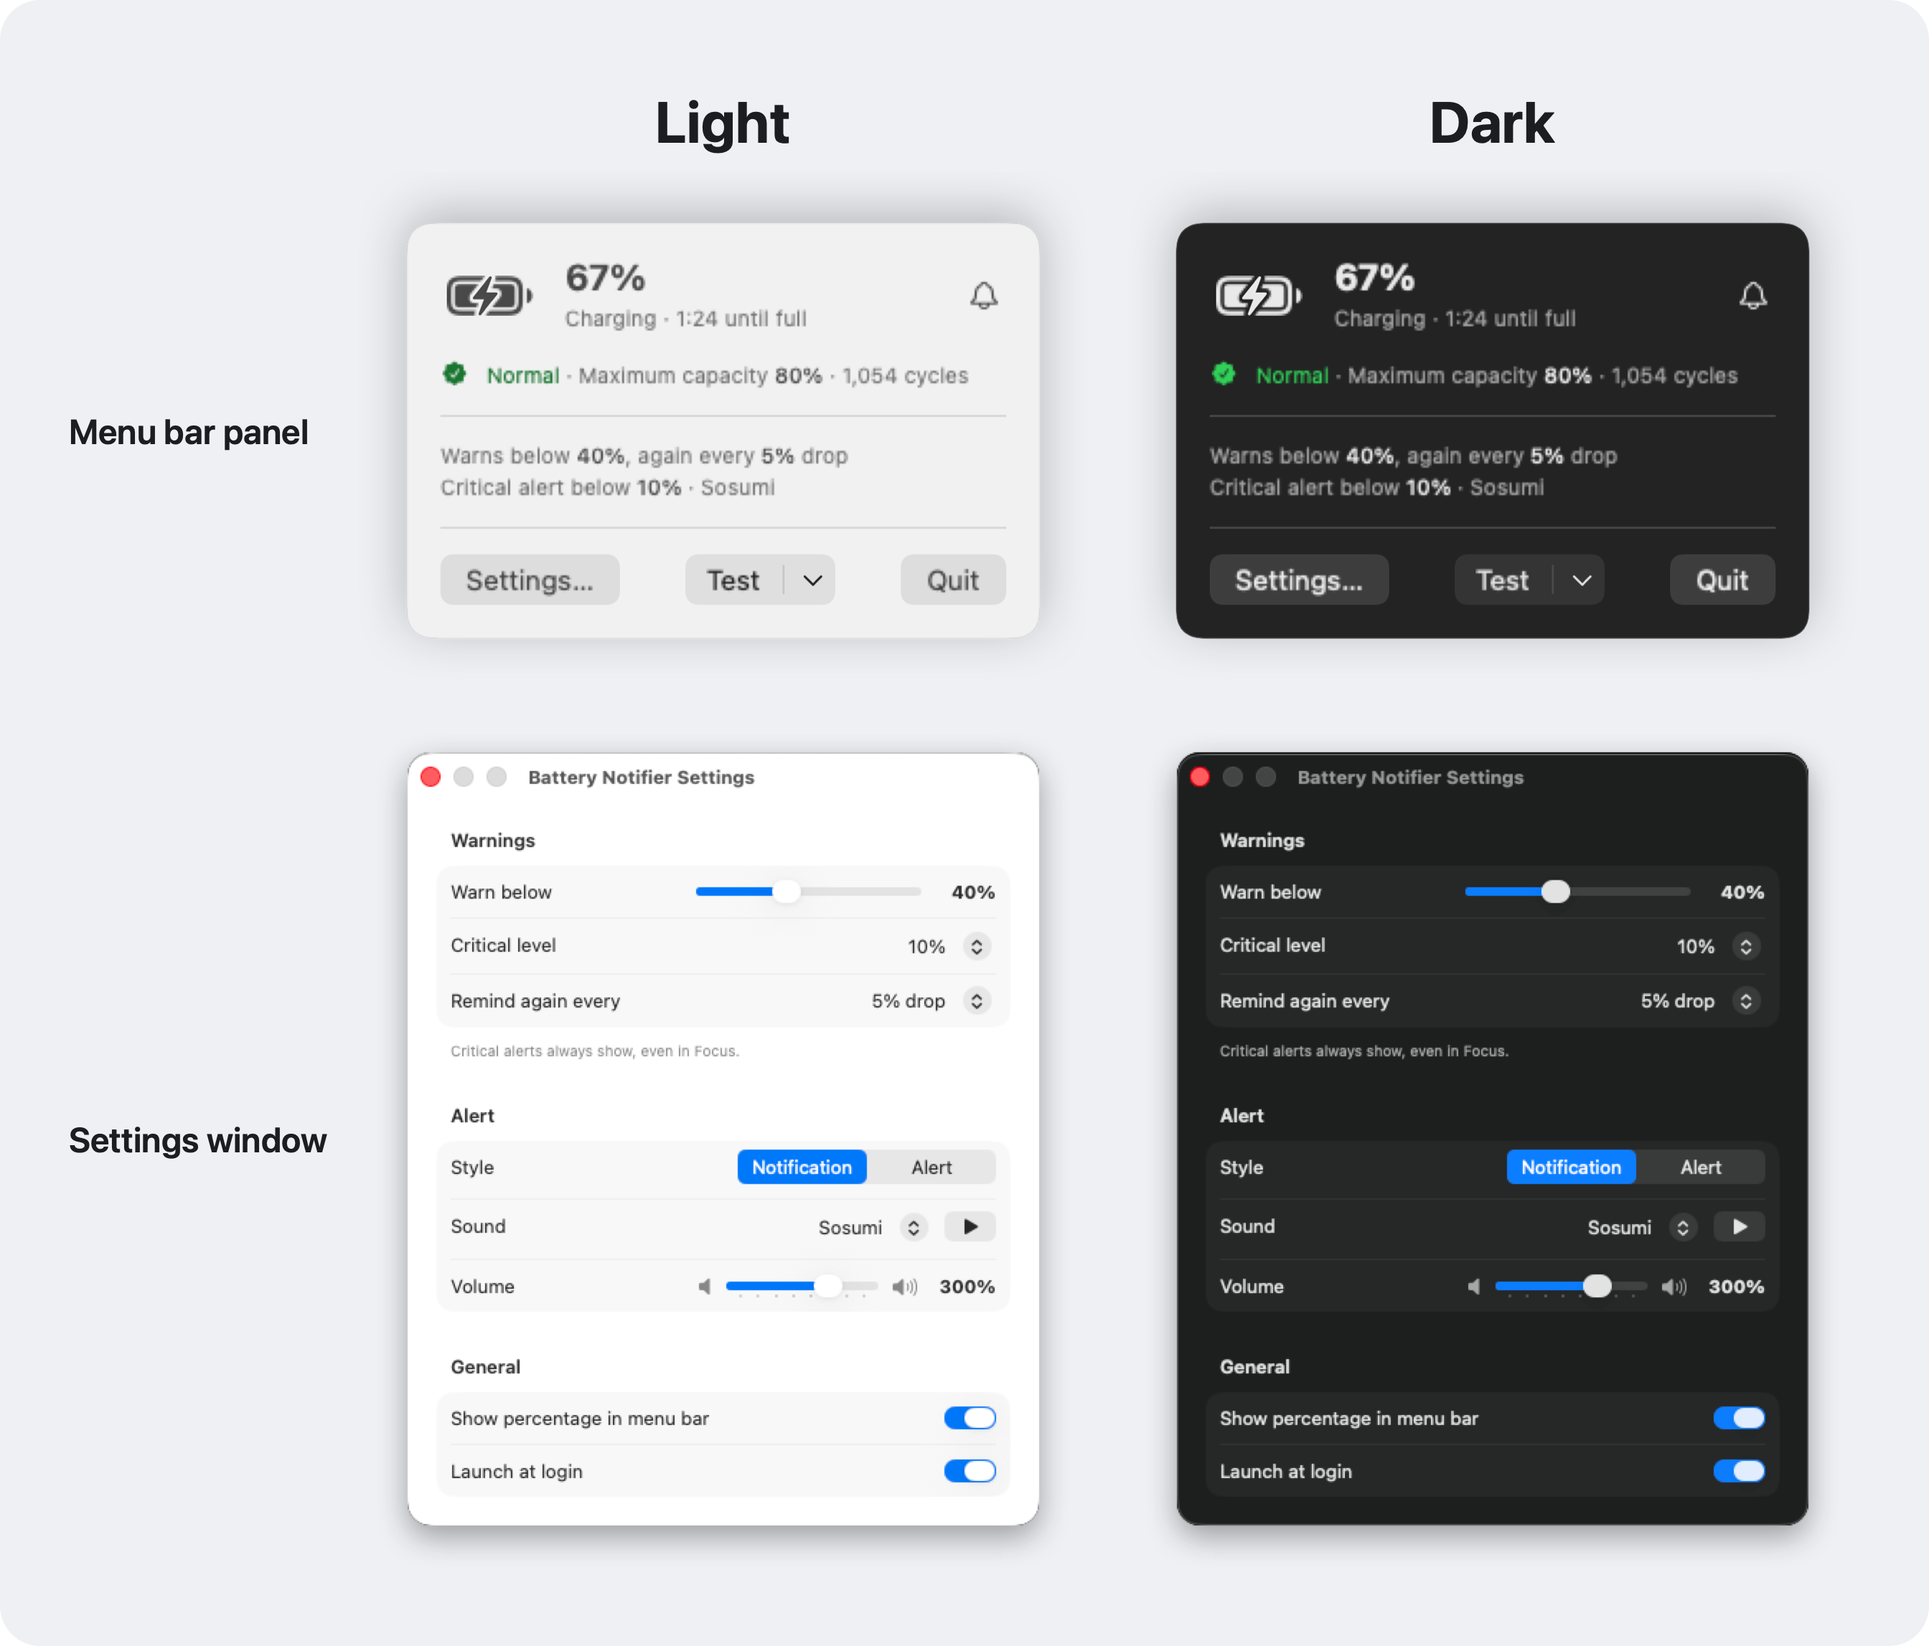
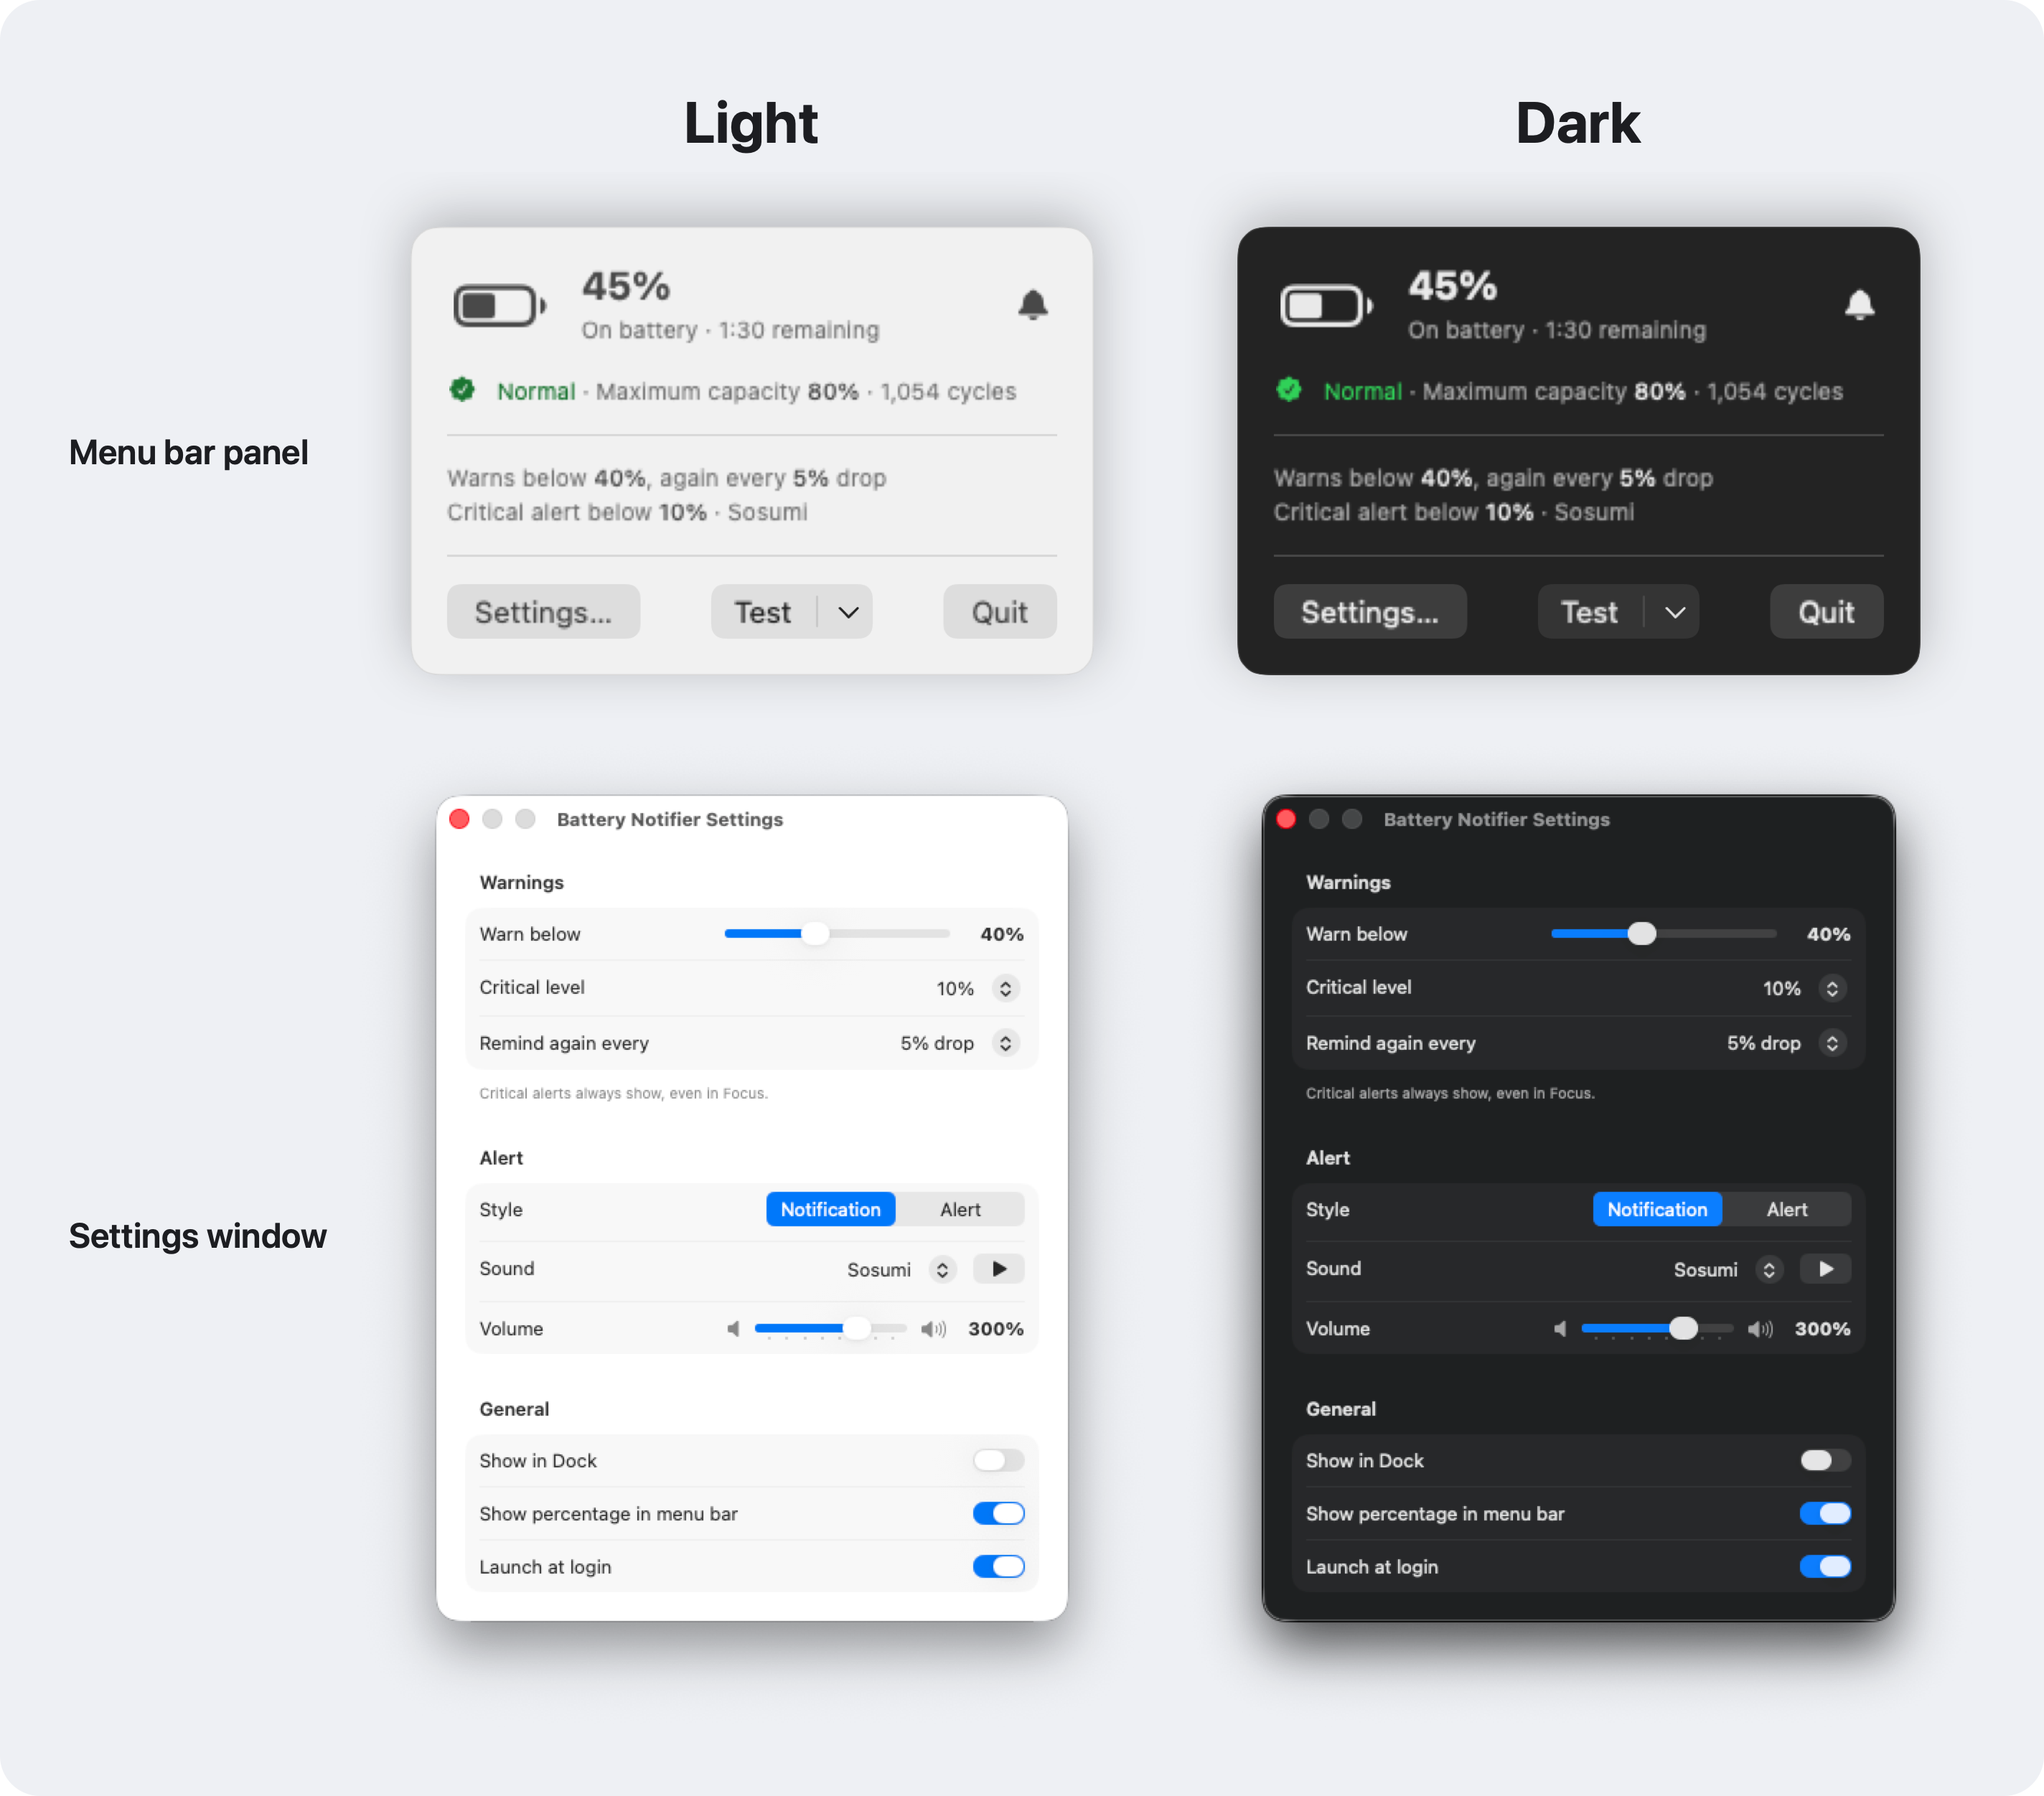
docs: update the screenshots for the Dock toggle and filled bell
The Settings images predated the Show in Dock toggle and are new
captures of the active window at default settings. The panel images
are re-rendered with the filled bell; they show the live battery, so
the README alt text now describes it on battery rather than charging.

diff --git a/README.md b/README.md
@@ -4,7 +4,7 @@ A lightweight macOS menu bar app that warns you when your MacBook's battery runs
 
 macOS only warns when the battery is nearly empty, at a level you can't change. Battery Notifier warns at the level you choose, reminds you as the battery keeps dropping, plays a sound loud enough to notice, and can show alerts that get through Focus.
 
-![Battery Notifier in light and dark mode. Top row: the menu bar panel, showing 67% and charging with 1:24 until full, battery health Normal, maximum capacity 80% and 1,054 cycles, a summary of the warning settings, and Settings, Test and Quit buttons. Bottom row: the Settings window, with Warnings (warn below 40%, critical level 10%, remind every 5% drop), Alert (notification style, Sosumi sound, 300% volume) and General (percentage in menu bar, launch at login) sections.](docs/images/screenshots.png)
+![Battery Notifier in light and dark mode. Top row: the menu bar panel, showing 45% on battery with 1:30 remaining, battery health Normal, maximum capacity 80% and 1,054 cycles, a summary of the warning settings, and Settings, Test and Quit buttons. Bottom row: the Settings window, with Warnings (warn below 40%, critical level 10%, remind every 5% drop), Alert (notification style, Sosumi sound, 300% volume) and General (show in Dock, percentage in menu bar, launch at login) sections.](docs/images/screenshots.png)
 
 ## Features
 
